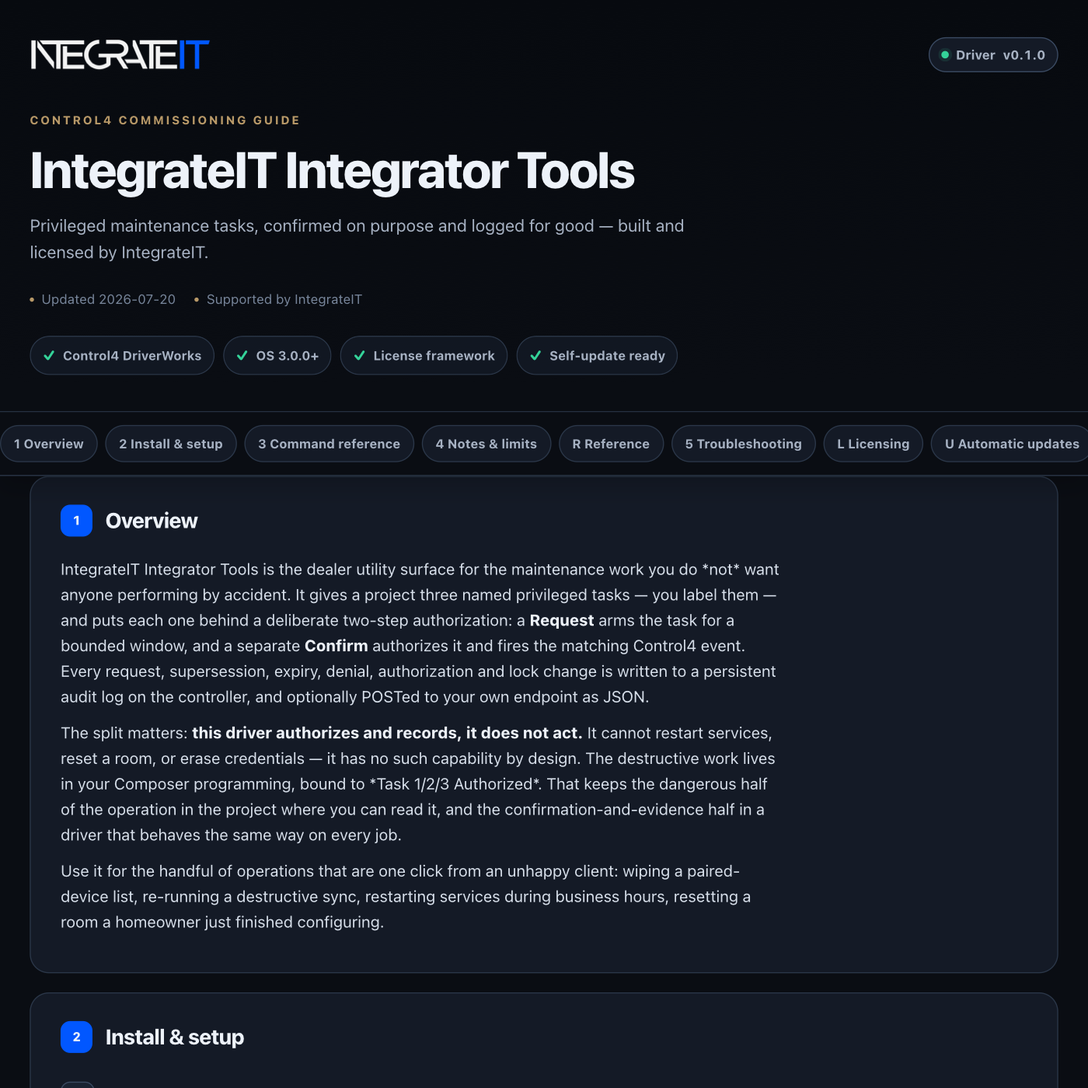
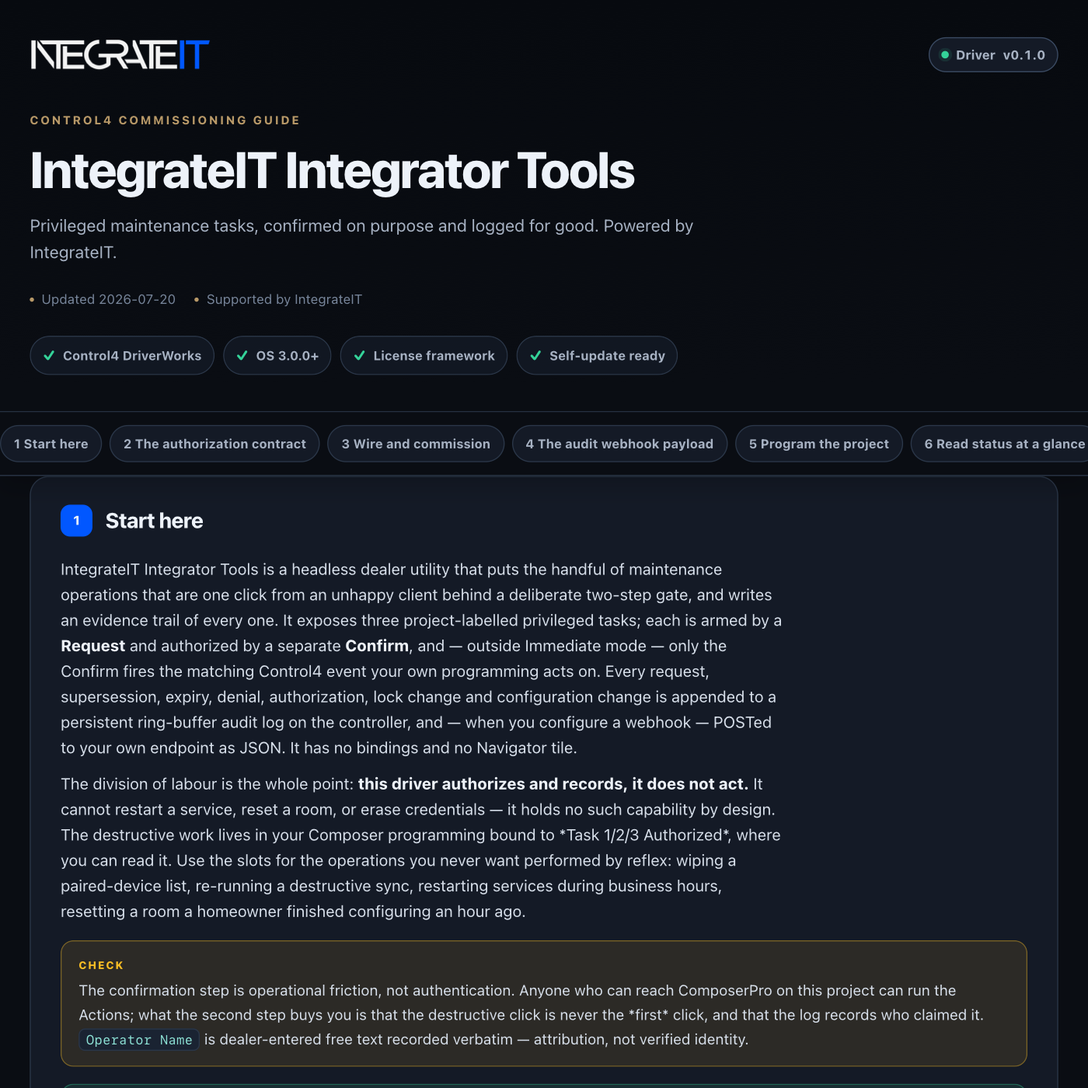
control4: publish driver channel (integrateit_integrator_tools 0.1.1)

diff --git a/control4/integrateit_integrator_tools/documentation.html b/control4/integrateit_integrator_tools/documentation.html
@@ -179,13 +179,13 @@ td code{white-space:normal}
     <div class="wrap">
       <div class="brandbar">
[1 lines of base64/hex data omitted]
-        <span class="version"><span class="word">Driver</span> v0.1.0</span>
+        <span class="version"><span class="word">Driver</span> v0.1.1</span>
       </div>
       <p class="eyebrow">Control4 commissioning guide</p>
       <h1>IntegrateIT Integrator Tools</h1>
-      <p class="sub">Privileged maintenance tasks, confirmed on purpose and logged for good — built and licensed by IntegrateIT.</p>
+      <p class="sub">Privileged maintenance tasks, confirmed on purpose and logged for good. Powered by IntegrateIT.</p>
       <div class="meta">
-        <span>Updated 2026-07-20</span>
+        <span>Updated 2026-07-26</span>
         <span>Supported by IntegrateIT</span>
       </div>
       <div class="readiness" aria-label="Driver capabilities">
@@ -198,62 +198,137 @@ td code{white-space:normal}
   </header>
 
   <div class="toc-wrap">
-    <nav class="toc wrap" aria-label="Documentation sections"><a href="#overview">1 Overview</a><a href="#install">2 Install &amp; setup</a><a href="#commands">3 Command reference</a><a href="#notes">4 Notes &amp; limits</a><a href="#reference">R Reference</a><a href="#troubleshooting">5 Troubleshooting</a><a href="#licensing">L Licensing</a><a href="#updates">U Automatic updates</a><a href="#changelog">V Version history</a></nav>
+    <nav class="toc wrap" aria-label="Documentation sections"><a href="#overview">1 Start here</a><a href="#contract">2 The authorization contract</a><a href="#setup">3 Wire and commission</a><a href="#protocol">4 The audit webhook payload</a><a href="#programming">5 Program the project</a><a href="#status">6 Read status at a glance</a><a href="#troubleshooting">7 Troubleshoot methodically</a><a href="#trust">8 Ownership, privacy, and licensing</a><a href="#reference">R Reference</a><a href="#licensing">L Licensing</a><a href="#updates">U Automatic updates</a><a href="#changelog">V Version history</a></nav>
   </div>
 
   <main class="wrap">
     <section class="card" id="overview" data-card="overview">
-  <h2><span class="n">1</span> Overview</h2>
-  <p>IntegrateIT Integrator Tools is the dealer utility surface for the maintenance work you do *not* want anyone performing by accident. It gives a project three named privileged tasks — you label them — and puts each one behind a deliberate two-step authorization: a <b>Request</b> arms the task for a bounded window, and a separate <b>Confirm</b> authorizes it and fires the matching Control4 event. Every request, supersession, expiry, denial, authorization and lock change is written to a persistent audit log on the controller, and optionally POSTed to your own endpoint as JSON.</p>
-  <p>The split matters: <b>this driver authorizes and records, it does not act.</b> It cannot restart services, reset a room, or erase credentials — it has no such capability by design. The destructive work lives in your Composer programming, bound to *Task 1/2/3 Authorized*. That keeps the dangerous half of the operation in the project where you can read it, and the confirmation-and-evidence half in a driver that behaves the same way on every job.</p>
-  <p>Use it for the handful of operations that are one click from an unhappy client: wiping a paired-device list, re-running a destructive sync, restarting services during business hours, resetting a room a homeowner just finished configuring.</p>
+  <h2><span class="n">1</span> Start here</h2>
+  <p>IntegrateIT Integrator Tools is a headless dealer utility that puts the handful of maintenance operations that are one click from an unhappy client behind a deliberate two-step gate, and writes an evidence trail of every one. It exposes three project-labelled privileged tasks; each is armed by a <b>Request</b> and authorized by a separate <b>Confirm</b>, and — outside Immediate mode — only the Confirm fires the matching Control4 event your own programming acts on. Every request, supersession, expiry, denial, authorization, lock change and configuration change is appended to a persistent ring-buffer audit log on the controller, and — when you configure a webhook — POSTed to your own endpoint as JSON. It has no bindings and no Navigator tile.</p>
+  <p>The division of labour is the whole point: <b>this driver authorizes and records, it does not act.</b> It cannot restart a service, reset a room, or erase credentials — it holds no such capability by design. The destructive work lives in your Composer programming bound to *Task 1/2/3 Authorized*, where you can read it. Use the slots for the operations you never want performed by reflex: wiping a paired-device list, re-running a destructive sync, restarting services during business hours, resetting a room a homeowner finished configuring an hour ago.</p>
+  <div class="note warn">The confirmation step is operational friction, not authentication. Anyone who can reach ComposerPro on this project can run the Actions; what the second step buys you is that the destructive click is never the *first* click, and that the log records who claimed it. <code>Operator Name</code> is dealer-entered free text recorded verbatim — attribution, not verified identity.</div>
+  <div class="note good">Simulator-verified, pending hardware acceptance. The package, Lua 5.1 runtime, all three confirmation regimes, the maintenance lock, the ring buffer and its reboot persistence, the webhook path, the license gate, and this documentation pass automated QA in the LuaJIT simulator. A qualified dealer must still install on the target controller and confirm — against real programming — that each Authorized event runs the intended work and that the webhook reaches the intended endpoint.</div>
+  <p><b>What you get</b></p>
+  <ul>
+    <li>Three dealer-labelled privileged tasks (<code>Task 1/2/3 Label</code>), each authorized as its own Control4 event</li>
+    <li>Three confirmation regimes — Two-Step Confirm, Code Confirm (a one-time code printed to the Lua output window), and Immediate for unattended programming</li>
+    <li>A bounded confirmation window (10–900 s) that expires on its own schedule so an armed request never waits indefinitely</li>
+    <li><b>Maintenance Lock</b> that refuses every privileged request until a dealer releases it, and survives reboots</li>
+    <li>A persistent ring-buffer audit log (5–200 entries) recording requests, authorizations, denials, expiries, lock and config changes — survives reboots and driver updates</li>
+    <li>Optional audit webhook: every entry POSTs as JSON, plus an on-demand full-log <b>Export</b></li>
+    <li>MAC-locked IntegrateIT licensing on every privileged path; read-only diagnostics stay available unlicensed</li>
+  </ul>
 </section>
 
-<section class="card" id="install" data-card="install">
-  <h2><span class="n">2</span> Install &amp; setup</h2>
+<section class="card" id="contract" data-card="contract">
+  <h2><span class="n">2</span> The authorization contract</h2>
+  <p>This is a gate and a ledger. It is honest about the three things it deliberately cannot do:</p>
+  <ul>
+    <li><b>It never performs the task.</b> Authorizing a slot fires *Task N Authorized* and writes an audit entry — nothing more. If no programming is bound to that event, authorizing produces a log line and an event and nothing else happens, which is exactly what an unprogrammed slot should do. The dangerous half of every operation stays in the project where you can read it.</li>
+    <li><b>It cannot authenticate.</b> The confirmation step is friction, not identity. <code>Operator Name</code> is stamped verbatim on every entry because the driver records what the dealer claims — it does not verify it. Read the log as "who said they did this", not proof.</li>
+    <li><b>It cannot make the log durable by itself.</b> The audit log lives in driver PersistData on this controller. It survives reboots and driver updates, but it is bounded by <code>Audit Log Size</code> and is lost if the driver is removed from the project — anyone with project access to remove and re-add the driver discards it. The webhook is the off-controller copy; configure it when you need durable retention.</li>
+  </ul>
+  <p>Three rules protect the ledger, and none can be turned off:</p>
+  <ul>
+    <li><b>Clearing the log is itself a privileged, confirmed operation and leaves a tombstone.</b> Even in Immediate mode, <code>Request Audit Log Clear</code> is forced back to a two-step confirmation — a one-Action unconfirmed wipe of the accountability record is the one thing this driver must never allow. The clear writes a tombstone entry the instant it fires, so the log is never silently empty.</li>
+    <li><b>Weakening the gate is recorded, and never retroactive.</b> Changing <code>Confirmation Mode</code> discards any pending request — one raised under one regime must not be completable under another — and writes the new mode to the log. Retargeting the <code>Audit Webhook URL</code> is logged too: the fact it changed, never the URL, which can carry a token.</li>
+    <li><b>An armed request never survives a reboot.</b> The lock and the log persist; a pending request deliberately does not. Confirming across a restart would authorize work whose window — and whose operator — no longer exists.</li>
+  </ul>
+</section>
+
+<section class="card" id="setup" data-card="setup">
+  <h2><span class="n">3</span> Wire and commission</h2>
+  <p>This is a headless driver — no bindings, no Navigator tile, no wiring.</p>
   <ol class="steps">
-    <li>Add the driver to a room. It has no bindings and no Navigator tile — it is a headless utility.</li>
-    <li>Label the three tasks for this project: <code>Task 1 Label</code>, <code>Task 2 Label</code>, <code>Task 3 Label</code>. The label is what appears in Status, in the audit log, and in the webhook payload, so write it the way you would want to read it a year later.</li>
-    <li>Choose <code>Confirmation Mode</code>: - <b>Two-Step Confirm</b> (default) — Request, then Confirm. The right answer for most projects. - <b>Code Confirm</b> — Request prints a one-time six-character code to the Lua output window; type it into <code>Confirmation Code</code>, then Confirm. Use it when several people have Composer access and you want the confirming person to have deliberately read the driver's own log. - <b>Immediate (no confirm)</b> — authorizes on request. For unattended programming that needs the audit trail without a human in the loop. Still fully logged.</li>
-    <li>Set <code>Confirmation Window (sec)</code> (10–900, default 60) — how long an armed request stays confirmable.</li>
-    <li>Set <code>Operator Name</code> to whoever is working the project. It is stamped verbatim on every audit entry.</li>
-    <li>In Programming, react to <b>Task 1 Authorized</b> / <b>Task 2 Authorized</b> / <b>Task 3 Authorized</b> and perform the actual work there.</li>
-    <li>Optional: set <code>Audit Webhook URL</code> to receive every audit entry as a JSON POST, and <code>Audit Log Size</code> (5–200) for how much history the controller itself keeps.</li>
+    <li>Add <b>IntegrateIT Integrator Tools</b> to a room.</li>
+    <li>Label the three tasks for this project — <code>Task 1 Label</code>, <code>Task 2 Label</code>, <code>Task 3 Label</code>. The label appears in <code>Pending Request</code>, in the audit log, and in the webhook payload, so write it the way you want to read it a year later. Defaults are <code>Restart System Services</code>, <code>Reset Room Configuration</code>, <code>Clear Stored Credentials</code>.</li>
+    <li>Choose <code>Confirmation Mode</code>: - <b>Two-Step Confirm</b> (default) — Request, then Confirm. The right answer for most projects. - <b>Code Confirm</b> — Request prints a one-time six-character code to the Lua output window; type it into <code>Confirmation Code</code>, then Confirm. The alphabet drops look-alike glyphs (no <code>B</code>/<code>8</code>, <code>I</code>/<code>1</code>, <code>O</code>/<code>0</code>, <code>S</code>/<code>5</code>, <code>Z</code>/<code>2</code>) and the code is matched case-insensitively, so a code read off the screen round-trips first time. A fresh code is drawn for every request and is not reproducible across driver loads. Use it when several people hold Composer access and the confirming person must have deliberately read the driver's own output. - <b>Immediate (no confirm)</b> — authorizes a task slot on request with no confirmation window armed, for unattended programming that needs the audit trail without a human in the loop. Still fully logged. Clearing the audit log ignores this and always confirms.</li>
+    <li>Set <code>Confirmation Window (sec)</code> — 10–900, default 60 — how long an armed request stays confirmable. Editing it while a request is pending applies to the *next* request; a live window keeps its original schedule.</li>
+    <li>Set <code>Operator Name</code> to whoever is working the project. It is stamped verbatim on every audit entry; left blank, entries record <code>unattributed</code>.</li>
+    <li>Optional: set <code>Audit Webhook URL</code> to receive each entry as a JSON POST, and <code>Audit Log Size</code> (5–200, default 25) for on-controller depth.</li>
+    <li>In Programming, react to <b>Task 1/2/3 Authorized</b> and perform the actual maintenance work there.</li>
+    <li>Prove it: <b>Request Task 1</b>, watch <code>Pending Request</code> arm and *Authorization Requested* fire, then <b>Confirm Pending Request</b> and watch *Task 1 Authorized* fire, <code>Last Authorization</code> update, and <code>Audit Entries</code> climb. Run <b>Print Audit Log</b> to read the trail back.</li>
   </ol>
 </section>
 
-<section class="card" id="commands" data-card="commands">
-  <h2><span class="n">3</span> Command reference</h2>
-  <table>
-    <tr><th>Action</th><th>What it does</th></tr>
-    <tr><td>Request Task 1 / 2 / 3</td><td>Raise a privileged request for that slot. Arms the confirmation window (or authorizes immediately in Immediate mode).</td></tr>
-    <tr><td>Confirm Pending Request</td><td>Authorize the pending request — fires *Task N Authorized* + *Task Authorized*. In Code Confirm mode the typed <code>Confirmation Code</code> must match.</td></tr>
-    <tr><td>Cancel Pending Request</td><td>Drop the pending request without authorizing it.</td></tr>
-    <tr><td>Lock Maintenance / Unlock Maintenance</td><td>Engage or release the maintenance lock. While locked, every privileged request and confirmation is refused, and any pending request is cleared. Survives reboots.</td></tr>
-    <tr><td>Request Audit Log Clear</td><td>Raise a request to clear the audit log. Clearing is privileged too, so it goes through the same confirmation step.</td></tr>
-    <tr><td>Print Audit Log</td><td>Print the persisted log to the Lua output window.</td></tr>
-    <tr><td>Export Audit Log</td><td>POST the entire log to the <code>Audit Webhook URL</code> as one JSON document.</td></tr>
-    <tr><td>Print Configuration</td><td>Print mode, window, lock, pending request, task labels and log depth.</td></tr>
-  </table>
-  <p><b>Events:</b> *Task Authorized*, *Task 1/2/3 Authorized*, *Authorization Requested*, *Authorization Cleared*, *Authorization Denied*, *Audit Log Cleared*, *Maintenance Lock Changed*. <b>Variables:</b> <code>MAINTENANCE_LOCK</code>, <code>PENDING_REQUEST</code>, <code>AUTH_PENDING</code>, <code>LAST_AUTHORIZED_TASK</code>, <code>AUDIT_COUNT</code>.</p>
+<section class="card" id="protocol" data-card="protocol">
+  <h2><span class="n">4</span> The audit webhook payload</h2>
+  <p>When <code>Audit Webhook URL</code> is set, every entry POSTs as JSON the moment it is written. The driver reads only the HTTP status code of the reply — a 2xx marks <code>Audit Delivery</code> delivered, anything else marks it failed and keeps the entry in the local log. Nothing in the response body is parsed, so a hostile or truncated reply cannot affect the controller.</p>
+  <p>Per-entry POST body:</p>
+  <pre><code>{"driver":"integrateit_integrator_tools","version":"0.1.0",
+ "controller":"&lt;controller MAC&gt;",
+ "entry":{"at":"2026-07-20 14:03:11","event":"authorized",
+          "detail":"Restart System Services","operator":"Dana"}}</code></pre>
+  <p><b>Export Audit Log</b> posts the whole log as one document with <code>exported_at</code>, <code>count</code>, and an <code>entries</code> array of that same entry shape; with no URL set it prints a note to the Lua output window and posts nothing. Every dealer-entered string (labels, operator, detail) is escaped before it enters the JSON, so a stray quote cannot corrupt the payload. Delivery is fire-and-forget: a failed POST is reported in <code>Audit Delivery</code>, not queued or retried — <b>Export Audit Log</b> re-sends the whole log on demand.</p>
 </section>
 
-<section class="card" id="notes" data-card="notes">
-  <h2><span class="n">4</span> Notes &amp; limits</h2>
+<section class="card" id="programming" data-card="programming">
+  <h2><span class="n">5</span> Program the project</h2>
+  <p>The driver is all events and variables — there is no Navigator surface to program against. Bind the real work to the per-task events; use the lifecycle events to track state.</p>
+  <table>
+    <tr><th>Event</th><th>Fires when</th></tr>
+    <tr><td><code>Task 1/2/3 Authorized</code></td><td>The matching slot was authorized — <b>run its work here</b></td></tr>
+    <tr><td><code>Task Authorized</code></td><td>Any privileged request was authorized — alongside the specific per-task event, and alongside <code>Audit Log Cleared</code> on a confirmed log clear</td></tr>
+    <tr><td><code>Authorization Requested</code></td><td>A task was requested and is awaiting confirmation</td></tr>
+    <tr><td><code>Authorization Cleared</code></td><td>A pending request went away <b>without</b> authorizing — cancelled, superseded, locked out, window expired, discarded by a <code>Confirmation Mode</code> change, or discarded after three wrong codes</td></tr>
+    <tr><td><code>Authorization Denied</code></td><td>A request or confirmation was refused (lock engaged, wrong code, nothing pending)</td></tr>
+    <tr><td><code>Audit Log Cleared</code></td><td>The log was cleared through the confirmation flow, leaving a tombstone</td></tr>
+    <tr><td><code>Maintenance Lock Changed</code></td><td>The maintenance lock was engaged or released</td></tr>
+  </table>
+  <table>
+    <tr><th>Variable</th><th>Type</th><th>Meaning</th></tr>
+    <tr><td><code>LAST_AUTHORIZED_TASK</code></td><td>STRING</td><td>Label of the most recently authorized task</td></tr>
+    <tr><td><code>PENDING_REQUEST</code></td><td>STRING</td><td>Label of the task awaiting confirmation, or <code>None</code></td></tr>
+    <tr><td><code>AUTH_PENDING</code></td><td>BOOL</td><td>True while a request is armed</td></tr>
+    <tr><td><code>MAINTENANCE_LOCK</code></td><td>STRING</td><td><code>Locked</code> or <code>Unlocked</code></td></tr>
+    <tr><td><code>AUDIT_COUNT</code></td><td>NUMBER</td><td>Entries currently in the persisted log</td></tr>
+  </table>
+  <p>Recipes:</p>
   <ul>
-    <li><b>The driver never performs the task.</b> Bind the work to *Task N Authorized*. If nothing is bound, authorizing a task produces an audit entry and an event, and nothing else happens — which is exactly what an unprogrammed slot should do.</li>
-    <li><b>Confirmation is friction, not authentication.</b> Anyone with ComposerPro access to this project can run the Actions. What the second step buys you is that the destructive click is never the *first* click, and that the log records who claimed it.</li>
-    <li><b><code>Operator Name</code> is attribution, not identity.</b> It is free text, recorded verbatim.</li>
-    <li><b>An armed window keeps its original schedule.</b> Editing <code>Confirmation Window (sec)</code> while a request is pending applies to the *next* request — a live authorization cannot be stretched out from under itself.</li>
-    <li><b>Changing <code>Confirmation Mode</code> discards a pending request.</b> A request raised under one regime must not be completable under another.</li>
-    <li><b>A pending request never survives a reboot</b> — deliberately. The maintenance lock and the audit log do.</li>
-    <li><b>Clearing the log leaves a tombstone.</b> The clear itself is written back immediately, so the log is never silently empty.</li>
-    <li><b>The log is bounded and local.</b> It lives in driver PersistData, capped by <code>Audit Log Size</code>, and is lost if the driver is removed from the project. Configure the webhook when you need durable off-controller retention. Webhook delivery is fire-and-forget — a failure is reported in <code>Audit Delivery</code> and the entry stays local, but it is not queued or retried.</li>
-    <li><b>Code Confirm codes are printed to the Lua output window</b>, not delivered out-of-band. The confirming dealer needs the driver's Lua tab open.</li>
+    <li><b>Restart services on a confirmed request</b> — On *Task 1 Authorized*, run your service-restart macro. The Request/Confirm pair guarantees the restart was a deliberate two-step act, and the log names who claimed it.</li>
+    <li><b>Notify when a request is armed</b> — On *Authorization Requested*, send a push or flash a keypad LED so a second person knows a privileged task is on the clock.</li>
+    <li><b>Track pending state without sticking</b> — Latch a boolean on *Authorization Requested* and release it on *Authorization Cleared* and each *Task N Authorized*. Because a three-wrong-codes discard fires *Authorization Cleared* (not only *Denied*), the latch never gets stuck open.</li>
   </ul>
+  <p>Every privileged path is license-gated: under Strict enforcement an unlicensed controller arms nothing, authorizes nothing, and cannot move the lock. Lenient mode allows commissioning with the <code>License Status</code> nag.</p>
+</section>
+
+<section class="card" id="status" data-card="status">
+  <h2><span class="n">6</span> Read status at a glance</h2>
+  <table>
+    <tr><th>Property</th><th>Healthy result</th><th>What it tells you</th></tr>
+    <tr><td><code>Maintenance Lock</code></td><td><code>Unlocked</code> in normal operation</td><td><code>Locked</code> refuses every request; release with <b>Unlock Maintenance</b></td></tr>
+    <tr><td><code>Pending Request</code></td><td><code>None</code>, or <code>&lt;label&gt; - awaiting confirmation</code></td><td>A task is on the confirmation clock; Confirm or Cancel it — an armed request never survives a reboot</td></tr>
+    <tr><td><code>Last Authorization</code></td><td>The last task and when it authorized</td><td>Restored from the log after a reboot</td></tr>
+    <tr><td><code>Audit Entries</code></td><td>Climbs as work happens, caps at <code>Audit Log Size</code></td><td>Mirrors <code>AUDIT_COUNT</code>; a lower-than-expected count means the size cap trimmed it</td></tr>
+    <tr><td><code>Audit Delivery</code></td><td><code>Not configured (local log only)</code>, or <code>Delivered &lt;time&gt;</code></td><td>Also <code>Configured - no delivery attempted yet</code> after a reboot, <code>Full export delivered &lt;time&gt;</code> after an export, or a failure line naming the HTTP code</td></tr>
+    <tr><td><code>License Status</code></td><td>Activated, or Lenient during commissioning</td><td>Enter a key before selecting Strict enforcement</td></tr>
+  </table>
+  <p><b>Print Configuration</b> writes the mode, window, lock, pending request, operator, task labels, and log depth to the Lua output window. <b>Print Audit Log</b> writes the whole persisted trail. Neither prints the license key or the webhook URL.</p>
+</section>
+
+<section class="card" id="troubleshooting" data-card="troubleshooting">
+  <h2><span class="n">7</span> Troubleshoot methodically</h2>
+  <table>
+    <tr><th>Symptom</th><th>Likely cause</th><th>Fix</th></tr>
+    <tr><td>Nothing responds; every request refused</td><td>Maintenance lock engaged, or Strict + unlicensed</td><td>Check <code>Maintenance Lock</code> (run <b>Unlock Maintenance</b>) and <code>License Status</code></td></tr>
+    <tr><td>Confirm says nothing is pending</td><td>The window expired, or the request was superseded/cancelled</td><td>Request again; raise <code>Confirmation Window (sec)</code> if 60 s is too tight</td></tr>
+    <tr><td>Confirm denied with a code typed in</td><td>Wrong or stale code, or the mode changed since the request</td><td><b>Request</b> again and use the newly printed code; three wrong codes discard the request on purpose</td></tr>
+    <tr><td>Task authorizes but nothing happens</td><td>No programming bound to *Task N Authorized*</td><td>Bind the actual work to the event — the driver never performs it</td></tr>
+    <tr><td><code>Audit Delivery</code> shows a failure</td><td>Webhook unreachable or returning non-2xx</td><td>Check the URL and endpoint; the entries are still in the local log — <b>Export Audit Log</b> re-sends them</td></tr>
+    <tr><td>Log is shorter than expected</td><td><code>Audit Log Size</code> is a hard cap and lowering it trims immediately</td><td>Raise the size, or send entries off-controller with the webhook</td></tr>
+  </table>
+  <div class="note">Turn on <code>Debug Mode → Print</code> to watch every audit entry as it is written in the Lua output window.</div>
+  <p>If a privileged path still misbehaves after these checks, capture the <b>Print Configuration</b> and <b>Print Audit Log</b> output and contact support@integrateit.tech · (913) 804-7575.</p>
+</section>
+
+<section class="card" id="trust" data-card="trust">
+  <h2><span class="n">8</span> Ownership, privacy, and licensing</h2>
+  <p>This package is an original IntegrateIT utility. It bundles no other vendor's runtime, source, brand, trial, or license — it authorizes and records maintenance work you program yourself, and drives no third-party device or cloud.</p>
+  <p>Nothing leaves the controller unless you configure the audit webhook. When you do, each audit entry — timestamp, event, the dealer-entered task label and operator name, the driver slug and version, and the controller MAC — POSTs as JSON to the endpoint you chose and nowhere else. The <code>Audit Webhook URL</code> can carry a token, so it is deliberately never written to the audit log and never printed by any diagnostic; the log records only that the webhook was set, changed, or cleared. There are no device passwords or vendor credentials in this driver. The shared IntegrateIT license and update services use the controller identity, driver slug, version, configured license key, and update channel as documented in the reference below.</p>
+  <p>Lenient mode allows commissioning without an activated key and keeps <code>License Status</code> visible. Strict mode blocks every privileged path — requests, confirmations, lock changes, audit clears, exports — until the Ops Portal has minted and validated a key for this controller; the read-only diagnostics (<b>Print Audit Log</b>, <b>Print Configuration</b>) stay available either way so an unlicensed controller can still be inspected. Installing this package does not itself mint or activate a controller license.</p>
 <section class="card" id="reference" data-card="reference">
   <h2><span class="n">R</span> Reference</h2>
-  <p>Generated from the driver manifest at build time — always matches this build (v0.1.0).</p>
+  <p>Generated from the driver manifest at build time — always matches this build (v0.1.1).</p>
   <h3>Properties</h3>
   <table>
     <tr><th>Property</th><th>Type</th><th>Default</th><th>Description</th></tr>
@@ -322,21 +397,6 @@ td code{white-space:normal}
   </table>
 </section>
 </section>
-
-<section class="card" id="troubleshooting" data-card="troubleshooting">
-  <h2><span class="n">5</span> Troubleshooting</h2>
-  <table>
-    <tr><th>Symptom</th><th>Likely cause</th><th>Fix</th></tr>
-    <tr><td>Request is refused immediately</td><td>Maintenance lock is engaged</td><td>Check <code>Maintenance Lock</code>; run <b>Unlock Maintenance</b>.</td></tr>
-    <tr><td>Confirm says nothing is pending</td><td>The window already expired, or the request was superseded/cancelled</td><td>Raise the request again; raise <code>Confirmation Window (sec)</code> if 60s is too tight for your workflow.</td></tr>
-    <tr><td>Confirm is denied with the code typed in</td><td>Wrong or stale code, or the mode changed since the request</td><td>Run <b>Request</b> again and use the newly printed code. Three wrong codes discard the request on purpose.</td></tr>
-    <tr><td>Task authorizes but nothing happens</td><td>No programming bound to *Task N Authorized*</td><td>Bind the actual work to the event in Composer Programming — the driver never performs it.</td></tr>
-    <tr><td>Audit Delivery shows a failure</td><td>Webhook unreachable or returning non-2xx</td><td>Check the URL and the endpoint; the entries are still in the local log — <b>Export Audit Log</b> re-sends them.</td></tr>
-    <tr><td>Log is shorter than expected</td><td><code>Audit Log Size</code> is a hard cap, and lowering it trims immediately</td><td>Raise <code>Audit Log Size</code>, or send entries off-controller with the webhook.</td></tr>
-    <tr><td>Nothing happens at all</td><td>Strict enforcement + unlicensed</td><td>Check <code>License Status</code>; Lenient mode keeps control enabled without a key.</td></tr>
-  </table>
-  <div class="note">Turn on <code>Debug Mode → Print</code> to watch every audit entry as it is written in the Lua output window.</div>
-</section>
 <section class="card" id="licensing" data-card="licensing">
   <h2><span class="n">L</span> Licensing</h2>
   <p>This driver is licensed <b>per controller</b>. Each license key locks to one controller's
@@ -384,7 +444,9 @@ td code{white-space:normal}
     <section class="card" id="changelog" data-card="changelog">
   <h2><span class="n">V</span> Version history</h2>
   <div class="chg">
-    <div class="rel"><b>v0.1.0</b> <span class="pill green">current</span><span class="d">2026-07-20</span>
+    <div class="rel"><b>v0.1.1</b> <span class="pill green">current</span><span class="d">2026-07-26</span>
+      <ul><li>Documentation rebuilt to the IntegrateIT commissioning-guide standard: uniform sections, honest contracts, verified claim-by-claim against the code.</li><li>**Confirmation codes are now seeded per driver load.** Lua 5.1 starts `math.random` from a fixed sequence unless seeded, so the "one-time" code was identical on every controller and every reload — guessable without ever seeing one. Seeded from wall clock + process clock + controller MAC + a persisted nonce that bumps each boot, so two reloads inside the same second still diverge.</li><li>**Immediate mode can no longer clear the audit log unconfirmed.** Immediate applies to the three task slots only; `Request Audit Log Clear` always arms a Two-Step confirmation. A one-Action unconfirmed wipe of the accountability record was the worst thing this driver could do.</li><li>**Discarding a request after three wrong codes now fires `Authorization Cleared`.** It previously fired only `Authorization Denied`, leaving programming that latches pending on Requested/Cleared stuck on the one path that discards a live request.</li><li>**Confirmation-mode and audit-webhook changes are now audited.** Weakening the confirmation regime, or retargeting the audit egress off this controller, are exactly what the trail exists to name. The webhook URL itself is not logged — it can carry a token — only that it was set, changed, or cleared.</li><li>Catalog honesty: Immediate mode's removal of the confirmation step for task slots, and the fact that the local log dies with the driver, are now stated in `limitations`.</li></ul></div>
+    <div class="rel"><b>v0.1.0</b><span class="d">2026-07-20</span>
       <ul><li>Initial release candidate: a dealer utility surface that authorizes and records privileged maintenance work</li><li>Three project-labelled privileged tasks, each authorized as its own Control4 event; the driver performs no maintenance itself</li><li>Three confirmation regimes (Two-Step Confirm, Code Confirm with a printed one-time code, Immediate) behind a bounded confirmation window that keeps its original schedule once armed</li><li>Maintenance Lock that refuses every privileged request and clears anything pending; persisted across reboots</li><li>Persistent ring-buffer audit log with an optional JSON webhook per entry plus a full-log export; clearing the log is itself confirmed and leaves a tombstone</li><li>MAC-locked IntegrateIT licensing on every privileged path; read-only diagnostics stay available unlicensed</li></ul></div>
   </div>
 </section>

diff --git a/control4/integrateit_integrator_tools/CHANGELOG.md b/control4/integrateit_integrator_tools/CHANGELOG.md
@@ -1,5 +1,8 @@
 # Changelog — IntegrateIT Integrator Tools
 
+## [0.1.1] - 2026-07-26
+- Documentation rebuilt to the IntegrateIT commissioning-guide standard: uniform sections, honest contracts, verified claim-by-claim against the code.
+
 ## [Unreleased] - 2026-07-20 — adversarial review fixes
 - **Confirmation codes are now seeded per driver load.** Lua 5.1 starts `math.random` from a fixed sequence unless seeded, so the "one-time" code was identical on every controller and every reload — guessable without ever seeing one. Seeded from wall clock + process clock + controller MAC + a persisted nonce that bumps each boot, so two reloads inside the same second still diverge.
 - **Immediate mode can no longer clear the audit log unconfirmed.** Immediate applies to the three task slots only; `Request Audit Log Clear` always arms a Two-Step confirmation. A one-Action unconfirmed wipe of the accountability record was the worst thing this driver could do.
